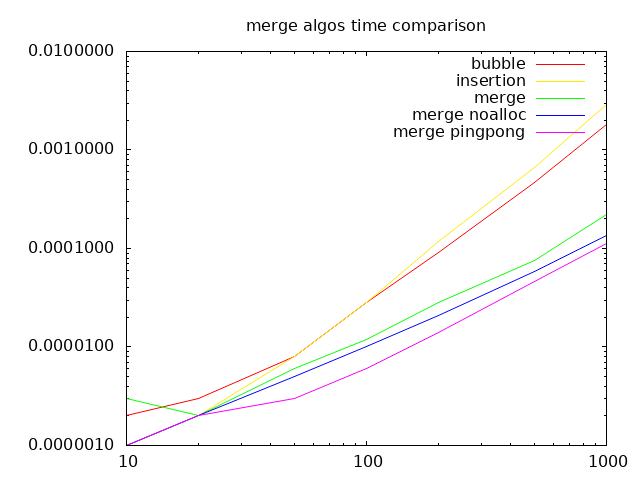
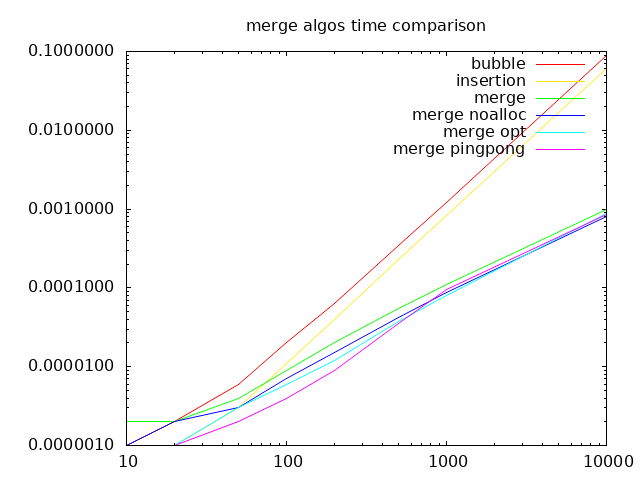
corrected insertion break and added insertion branch on merge optimized

diff --git a/TP1/sort/src/sort_unified.c b/TP1/sort/src/sort_unified.c
@@ -11,6 +11,7 @@ void merge(int *T, int p, int q, int r);
 void merge_pingpong(int* vector, int n);
 void merge_sort_noalloc(int* unsorted, int p, int r, int* sorted);
 void merge_noalloc(int *unsorted, int p, int q, int r, int* sorted);
+void merge_sort_noalloc_opt(int* unsorted, int p, int r, int* sorted);
 
 
 void print_vector(int* input_vector, int vector_size);
@@ -20,8 +21,8 @@ int* generate_random_vector(int size);
 int main(int argc, char *argv[]){
     srand(time(NULL));
     
-    int n_elements[] = {10, 20, 50, 100, 200, 500, 1000};
-    int n_elements_size = 7;
+    int n_elements[] = {10, 20, 50, 100, 200, 500, 1000, 10000};
+    int n_elements_size = 8;
 
     double exec_times_bubble[n_elements_size];
     memset(exec_times_bubble, 0, sizeof(exec_times_bubble));
@@ -33,6 +34,8 @@ int main(int argc, char *argv[]){
     memset(exec_times_merge_noalloc, 0, sizeof(exec_times_merge_noalloc));
     double exec_times_pingpong[n_elements_size];
     memset(exec_times_pingpong, 0, sizeof(exec_times_pingpong));
+    double exec_times_merge_noalloc_opt[n_elements_size];
+    memset(exec_times_merge_noalloc_opt, 0, sizeof(exec_times_merge_noalloc_opt));
 
     // --- Random Array Generation ---
     int curr_vector_size = 0;
@@ -93,6 +96,19 @@ int main(int argc, char *argv[]){
         print_vector(sorted_temp, curr_vector_size);
         printf("\n");
 
+        // --- MERGE NOALLOC OPT ---
+        memcpy(unsorted, vector, curr_vector_size * sizeof(int));
+        memcpy(sorted_temp, vector, curr_vector_size * sizeof(int));
+        clock_t start_noalloc_opt = clock();
+        merge_sort_noalloc_opt(unsorted, 0, curr_vector_size-1, sorted_temp);
+        clock_t end_noalloc_opt = clock();
+        verifier(sorted_temp, curr_vector_size);
+        exec_times_merge_noalloc_opt[i] = (double)(end_noalloc_opt - start_noalloc_opt) / CLOCKS_PER_SEC;
+        printf("Execution of merge_noalloc_opt sort with %d elements took %lf \n", curr_vector_size, exec_times_merge_noalloc_opt[i]);
+        printf("Merge Noalloc Opt Sorted vector \n");
+        print_vector(sorted_temp, curr_vector_size);
+        printf("\n");
+
         // --- PINGPONG ---
         clock_t start_pingpong = clock();
         merge_pingpong(vector, curr_vector_size);
@@ -114,6 +130,7 @@ int main(int argc, char *argv[]){
     FILE *fp3 = fopen("merge_exec_times.txt", "w");
     FILE *fp4 = fopen("merge_noalloc_exec_times.txt", "w");
     FILE *fp5 = fopen("merge_pingpong_exec_times.txt", "w");
+    FILE *fp6 = fopen("merge_noalloc_opt_exec_times.txt", "w");
 
     for(int i = 0; i < n_elements_size; i++){
         fprintf(fp1,"%d\t%lf \n", n_elements[i], exec_times_bubble[i]);
@@ -121,6 +138,7 @@ int main(int argc, char *argv[]){
         fprintf(fp3,"%d\t%lf \n", n_elements[i], exec_times_merge[i]);
         fprintf(fp4,"%d\t%lf \n", n_elements[i], exec_times_merge_noalloc[i]);
         fprintf(fp5,"%d\t%lf \n", n_elements[i], exec_times_pingpong[i]);
+        fprintf(fp6,"%d\t%lf \n", n_elements[i], exec_times_merge_noalloc_opt[i]);
     }
 
     fclose(fp1);
@@ -128,6 +146,7 @@ int main(int argc, char *argv[]){
     fclose(fp3);
     fclose(fp4);
     fclose(fp5);
+    fclose(fp6);
 
     system("gnuplot merge_plot.gp");
 
@@ -166,6 +185,8 @@ void insertion_sort(int* input_vector, int vector_size){
                     int tmp = input_vector[k];
                     input_vector[k] = input_vector[k+1];
                     input_vector[k+1] = tmp;
+                } else {
+                    break;
                 }
             }
         }
@@ -244,6 +265,27 @@ void merge_noalloc(int *unsorted, int p, int q, int r, int* sorted){
     }
 }
 
+void merge_sort_noalloc_opt(int* unsorted, int p, int r, int* sorted){
+    if (unsorted == NULL || sorted == NULL){
+        printf("provide a valid vector or a size > 0 \n");
+    }else{
+        if ((r+1-p) < 16){ //if the vector is smaller than 20 elements call insertion sort instead of the recursive function
+            for(int i = p; i <= r; i++) {
+                sorted[i] = unsorted[i];
+            }
+            insertion_sort(sorted + p, r + 1 - p);
+        }else{
+            if(p<r){
+                int q = (p+r)/2;
+                merge_sort_noalloc_opt(sorted, p, q, unsorted);
+                merge_sort_noalloc_opt(sorted, q+1, r, unsorted);
+                merge_noalloc(unsorted, p, q, r, sorted);
+            }
+        }
+
+    }
+}
+
 
 
 void print_vector(int* input_vector, int vector_size){
@@ -267,7 +309,7 @@ void verifier(int* input_vector, int vector_size){
 int* generate_random_vector(int size) {
     int *vector = malloc(size * sizeof(int));
     for (int j = 0; j < size; j++){
-        vector[j] = rand() % 101;
+        vector[j] = rand() % 10001;
     }
     printf("Unsorted vector \n");
     print_vector(vector, size);

diff --git a/TP1/sort/src/merge_sort.c b/TP1/sort/src/merge_sort.c
@@ -87,6 +87,8 @@ void insertion_sort(int* input_vector, int vector_size){
                     int tmp = input_vector[k];
                     input_vector[k] = input_vector[k+1];
                     input_vector[k+1] = tmp;
+                } else {
+                    break;
                 }
             }
         }
@@ -147,7 +149,27 @@ void merge_sort_noalloc(int* unsorted, int p, int r, int* sorted){
             merge_noalloc(unsorted, p, q, r, sorted);
         }
     }
+}
 
+void merge_sort_noalloc_opt(int* unsorted, int p, int r, int* sorted){
+    if (unsorted == NULL || sorted == NULL){
+        printf("provide a valid vector or a size > 0 \n");
+    }else{
+        if ((r+1-p) < 16){ //if the vector is smaller than 20 elements call insertion sort instead of the recursive function
+            for(int i = p; i <= r; i++) {
+                sorted[i] = unsorted[i];
+            }
+            insertion_sort(sorted + p, r + 1 - p);
+        }else{
+            if(p<r){
+                int q = (p+r)/2;
+                merge_sort_noalloc_opt(sorted, p, q, unsorted);
+                merge_sort_noalloc_opt(sorted, q+1, r, unsorted);
+                merge_noalloc(unsorted, p, q, r, sorted);
+            }
+        }
+
+    }
 }
 
 void merge_noalloc(int *unsorted, int p, int q, int r, int* sorted){

diff --git a/TP1/sort/src/bubble_insertion_sort.c b/TP1/sort/src/bubble_insertion_sort.c
@@ -101,6 +101,8 @@ void insertion_sort(int* input_vector, int vector_size){
                     int tmp = input_vector[k];
                     input_vector[k] = input_vector[k+1];
                     input_vector[k+1] = tmp;
+                } else {
+                    break;
                 }
             }
         }
